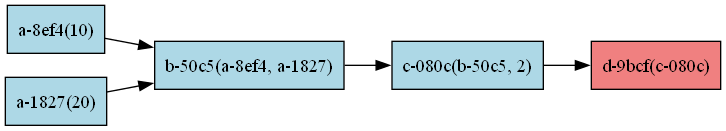
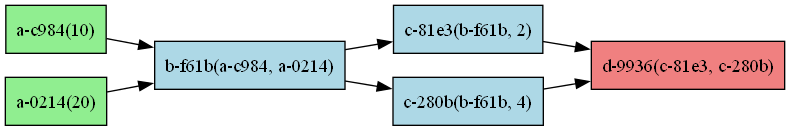
started creating executor

diff --git a/src/DAGTaskNode.py b/src/DAGTaskNode.py
@@ -3,6 +3,10 @@ from functools import wraps
 from typing import Callable, Generic, TypeVar
 import uuid
 
+import cloudpickle
+
+from .IntermediateStorage import IntermediateStorage
+
 R = TypeVar('R')
 
 @dataclass
@@ -16,20 +20,68 @@ class DAGTaskNode(Generic[R]):
         self.func_code = func
         self.func_args = args
         self.func_kwargs = kwargs
-        self.downstream_nodes: list['DAGTaskNode'] = []
+        self.downstream_nodes: list[str] = []
+        self.upstream_nodes: list[str] = []
         self._register_dependencies()
         
     def _register_dependencies(self):
+        for arg in self.func_args:
+            if isinstance(arg, DAGTaskNode):
+                self.upstream_nodes.append(arg.task_id)
+
+        for _, value in self.func_kwargs.items():
+            if isinstance(value, DAGTaskNode):
+                self.upstream_nodes.append(value.task_id)
+
         """Register this task as a downstream task of all its dependencies."""
         # Check args for DAGNode instances
         for arg in self.func_args:
             if isinstance(arg, DAGTaskNode):
-                arg.downstream_nodes.append(self)
+                arg.downstream_nodes.append(self.task_id)
                 
         # Check kwargs for DAGNode instances
         for _, value in self.func_kwargs.items():
             if isinstance(value, DAGTaskNode):
-                value.downstream_nodes.append(self)
+                value.downstream_nodes.append(self.task_id)
+
+    def is_ready(self):
+        for arg in self.func_args:
+            if isinstance(arg, DAGTaskNodeId) and not IntermediateStorage.exists(arg.value):
+                return False
+        for _, value in self.func_kwargs.items():
+            if isinstance(value, DAGTaskNodeId) and not IntermediateStorage.exists(value.value):
+                return False
+        return True
+
+    def execute(self):
+        final_func_args = []
+        final_func_kwargs = {}
+
+        if not self.is_ready(): raise Exception(f"Task {self.task_id} is not ready to be executed!")
+
+        for arg in self.func_args:
+            if isinstance(arg, DAGTaskNodeId):
+                task_output = IntermediateStorage.get(arg.value)
+                if task_output is None: raise Exception(f"[BUG] Task {arg.value}'s data is not available, despite is_ready()")
+                task_output = cloudpickle.loads(task_output) # type: ignore
+                final_func_args.append(task_output)
+            else:
+                final_func_args.append(arg)
+
+        for key, value in self.func_kwargs.items():
+            if isinstance(value, DAGTaskNodeId):
+                task_output = IntermediateStorage.get(value.value)
+                if task_output is None: raise Exception(f"[BUG] Task {value.value}'s data is not available, despite is_ready()")
+                task_output = cloudpickle.loads(task_output) # type: ignore
+                final_func_kwargs[key] = task_output
+            else:
+                final_func_kwargs[key] = value
+
+        print(f"Executing task {self.task_id} with args {final_func_args} and kwargs {final_func_kwargs}")
+
+        result = self.func_code(*tuple(final_func_args), **final_func_kwargs)
+        upload_result = IntermediateStorage.set(self.task_id, cloudpickle.dumps(result))
+        if not upload_result: raise Exception(f"[BUG] Task {self.task_id}'s data could not be uploaded to Redis (set() failed)")
 
     def __repr__(self):
         return f"DAGTaskNode({self.func_name}, id={self.task_id})"

diff --git a/src/DAG.py b/src/DAG.py
@@ -3,13 +3,12 @@ import graphviz
 import os
 import subprocess
 import platform
+import requests
 
+from .Executor import Executor
 from .DAGTaskNode import DAGTaskNode, DAGTaskNodeId
 
-
 class DAG:
-    """A class to represent a directed acyclic graph of tasks."""
-    
     def __init__(self, sink_node: DAGTaskNode):
         """Create a DAG from sink node (node with no downstream tasks)."""
         self.sink_node = sink_node
@@ -19,24 +18,30 @@ class DAG:
         self._identify_root_nodes()
         self._convert_node_func_args_to_ids()
     
+    def start_remote_execution(self):
+        def _invoke_remote_executor(subgraph: DAG):
+            print(f"Invoking remote executor for subgraph with {len(subgraph.root_nodes)} root nodes | First Node: {subgraph.root_nodes[0].task_id}")
+            response = requests.post(
+                'http://localhost:5000/',
+                data=cloudpickle.dumps(subgraph),
+                headers={'Content-Type': 'application/octet-stream'}
+            )
+            if response.status_code != 200: raise Exception(f"Failed to invoke executor: {response.text}")
+
+        # Invoke 1 new Executor per root node
+        for root_node in self.root_nodes:
+            _invoke_remote_executor(DAG(root_node))
+
+    def start_local_execution(self):
+        Executor(self).start_executor_loop()
+
     def _identify_root_nodes(self):
         """Identify root nodes (nodes with no upstream dependencies)."""
-        # First, collect all nodes that are dependencies of other nodes
-        dependency_nodes = set()
+        self.root_nodes = list(self.all_nodes.values())
         for node in self.all_nodes.values():
-            for arg in node.func_args:
-                if isinstance(arg, DAGTaskNode):
-                    dependency_nodes.add(arg.task_id)
-            
-            for _, value in node.func_kwargs.items():
-                if isinstance(value, DAGTaskNode):
-                    dependency_nodes.add(value.task_id)
-        
-        # Root nodes are all nodes that aren't dependencies of other nodes
-        self.root_nodes = [
-            node for node_id, node in self.all_nodes.items()
-            if node_id not in dependency_nodes
-        ]
+            for dependent in node.downstream_nodes:
+                if dependent in self.root_nodes:
+                    self.root_nodes.remove(dependent)
 
     def _build_graph(self):
         """Build the complete graph by traversing from sink node upward."""
@@ -135,8 +140,8 @@ class DAG:
         
         # Add edges
         for node_id, node in self.all_nodes.items():
-            for downstream_node in node.downstream_nodes:
-                dot.edge(node_id, downstream_node.task_id)
+            for downstream_node_id in node.downstream_nodes:
+                dot.edge(node_id, downstream_node_id)
         
         # Render the graph to a file
         try:

diff --git a/src/IntermediateStorage.py b/src/IntermediateStorage.py
@@ -5,24 +5,50 @@ class IntermediateStorage:
     REDIS_PORT = 6379
     REDIS_DB = 0
     REDIS_PASSWORD = None
+    _connection = None  # Singleton connection
 
     @classmethod
     def _get_connection(cls):
-        return redis.Redis(
-            host=cls.REDIS_HOST,
-            port=cls.REDIS_PORT,
-            db=cls.REDIS_DB,
-            password=cls.REDIS_PASSWORD,
-            decode_responses=True  # Auto-decode response bytes to strings
-        )
+        """
+        Get the singleton Redis connection. If it doesn't exist, create it.
+        """
+        if cls._connection is None:
+            cls._connection = redis.Redis(
+                host=cls.REDIS_HOST,
+                port=cls.REDIS_PORT,
+                db=cls.REDIS_DB,
+                password=cls.REDIS_PASSWORD,
+                decode_responses=False
+            )
+        return cls._connection
+
+    @classmethod
+    def verify_connection(cls):
+        """
+        Verify if the Redis server is reachable.
+        """
+        conn = cls._get_connection()
+        try:
+            return conn.ping()
+        except redis.ConnectionError:
+            return False
 
     @classmethod
     def get(cls, key):
+        """
+        Get a value from Redis by key.
+        """
         conn = cls._get_connection()
-        try:
-            return conn.get(key)
-        finally:
-            conn.close()
+        if not conn.exists(key): return None
+        return conn.get(key)
+
+    @classmethod
+    def exists(cls, key):
+        """
+        Check if a key exists in Redis.
+        """
+        conn = cls._get_connection()
+        return conn.exists(key)
 
     @classmethod
     def set(cls, key, value, expire=None):
@@ -38,13 +64,13 @@ class IntermediateStorage:
             bool: True if successful
         """
         conn = cls._get_connection()
-        try:
-            return conn.set(key, value, ex=expire)
-        finally:
-            conn.close()
+        return conn.set(key, value, ex=expire)
 
     @classmethod
     def configure(cls, host=None, port=None, db=None, password=None):
+        """
+        Configure Redis connection parameters.
+        """
         if host is not None:
             cls.REDIS_HOST = host
         if port is not None:
@@ -53,3 +79,16 @@ class IntermediateStorage:
             cls.REDIS_DB = db
         if password is not None:
             cls.REDIS_PASSWORD = password
+        # Reset the connection if configuration changes
+        if cls._connection is not None:
+            cls._connection.close()
+            cls._connection = None
+
+    @classmethod
+    def close_connection(cls):
+        """
+        Close the Redis connection.
+        """
+        if cls._connection is not None:
+            cls._connection.close()
+            cls._connection = None

diff --git a/src/Executor.py b/src/Executor.py
@@ -1,0 +1,36 @@
+import time
+import asyncio
+
+'''
+Receives a DAG:
+- starts by executing the root nodes
+- waits for fan-ins
+- invokes n - 1 executors on fan-outs
+'''
+class Executor:
+    def __init__(self, dag):
+        self.dag = dag
+        self.ready_tasks = asyncio.Queue()
+        for node in dag.root_nodes:
+            print(f"Initially root {node.task_id} to ready queue...")
+            start_execution_path(node)
+        # self.task_queue = asyncio.Queue()
+
+    def start_execution_path(self, subdag):
+        while True:
+            # TODO: Ability to execute more than 1 ready task at the same time
+            task = self.ready_tasks.get()
+            self._try_execute_task(task)
+
+    def _try_execute_task(self, node):
+        # WAIT FOR FAN-IN
+        while not node.is_ready():
+            print(f"{node.task_id} is NOT ready. Waiting for {node.upstream_nodes}...")
+            time.sleep(1)
+
+        node.execute()
+        
+        # FAN-OUT
+        for dependent in node.downstream_nodes:
+            print(f"Adding {dependent.task_id} to ready queue...")
+            _ = self.ready_tasks.put(dependent)

diff --git a/test.py b/test.py
@@ -15,8 +15,8 @@ def c(x: int, extra: int) -> str:
     return f"{(x * 10) + extra}"
 
 @DAGTask
-def d(x: int) -> str:
-    return f"{x}"
+def d(x: str, y: str) -> str:
+    return x + "_final_" + y
 
 a1 = a(10)
 a2 = a(20)
@@ -24,13 +24,10 @@ a2 = a(20)
 b1 = b(a1, a2)
 
 c1 = c(b1, 2)
-d1 = d(c1)
+c2 = c(b1, 4)
+d1 = d(c1, c2)
 
-# dag_json = d1.dag_json()
-# print(json.dumps(dag_json, indent=2))
-
-# res = d1.compute()
 dag = DAG(d1)
 dag.visualize()
-
-# d1.dag_visualize()
+dag.start_local_execution()
+print("DONE")

diff --git a/src/KongExecutor/handler.py b/src/KongExecutor/handler.py
@@ -1,0 +1,19 @@
+from flask import Flask, request, jsonify
+import cloudpickle
+
+from ..DAG import DAG
+
+app = Flask(__name__)
+
+@app.route('/', methods=['POST'])
+def execute():
+    try:
+        dag: DAG = cloudpickle.loads(request.data)
+        dag.start_local_execution()
+
+        return jsonify({"status": "Accepted"}), 200
+    except Exception as e:
+        return jsonify({"error": str(e)}), 400
+
+if __name__ == '__main__':
+    app.run(host='0.0.0.0', port=5000)

diff --git a/TODO.md b/TODO.md
@@ -1,0 +1,3 @@
+- executor
+- client submitting DAGs to executor
+- client subscribing to pubsub on redis + final executor publishing result there
